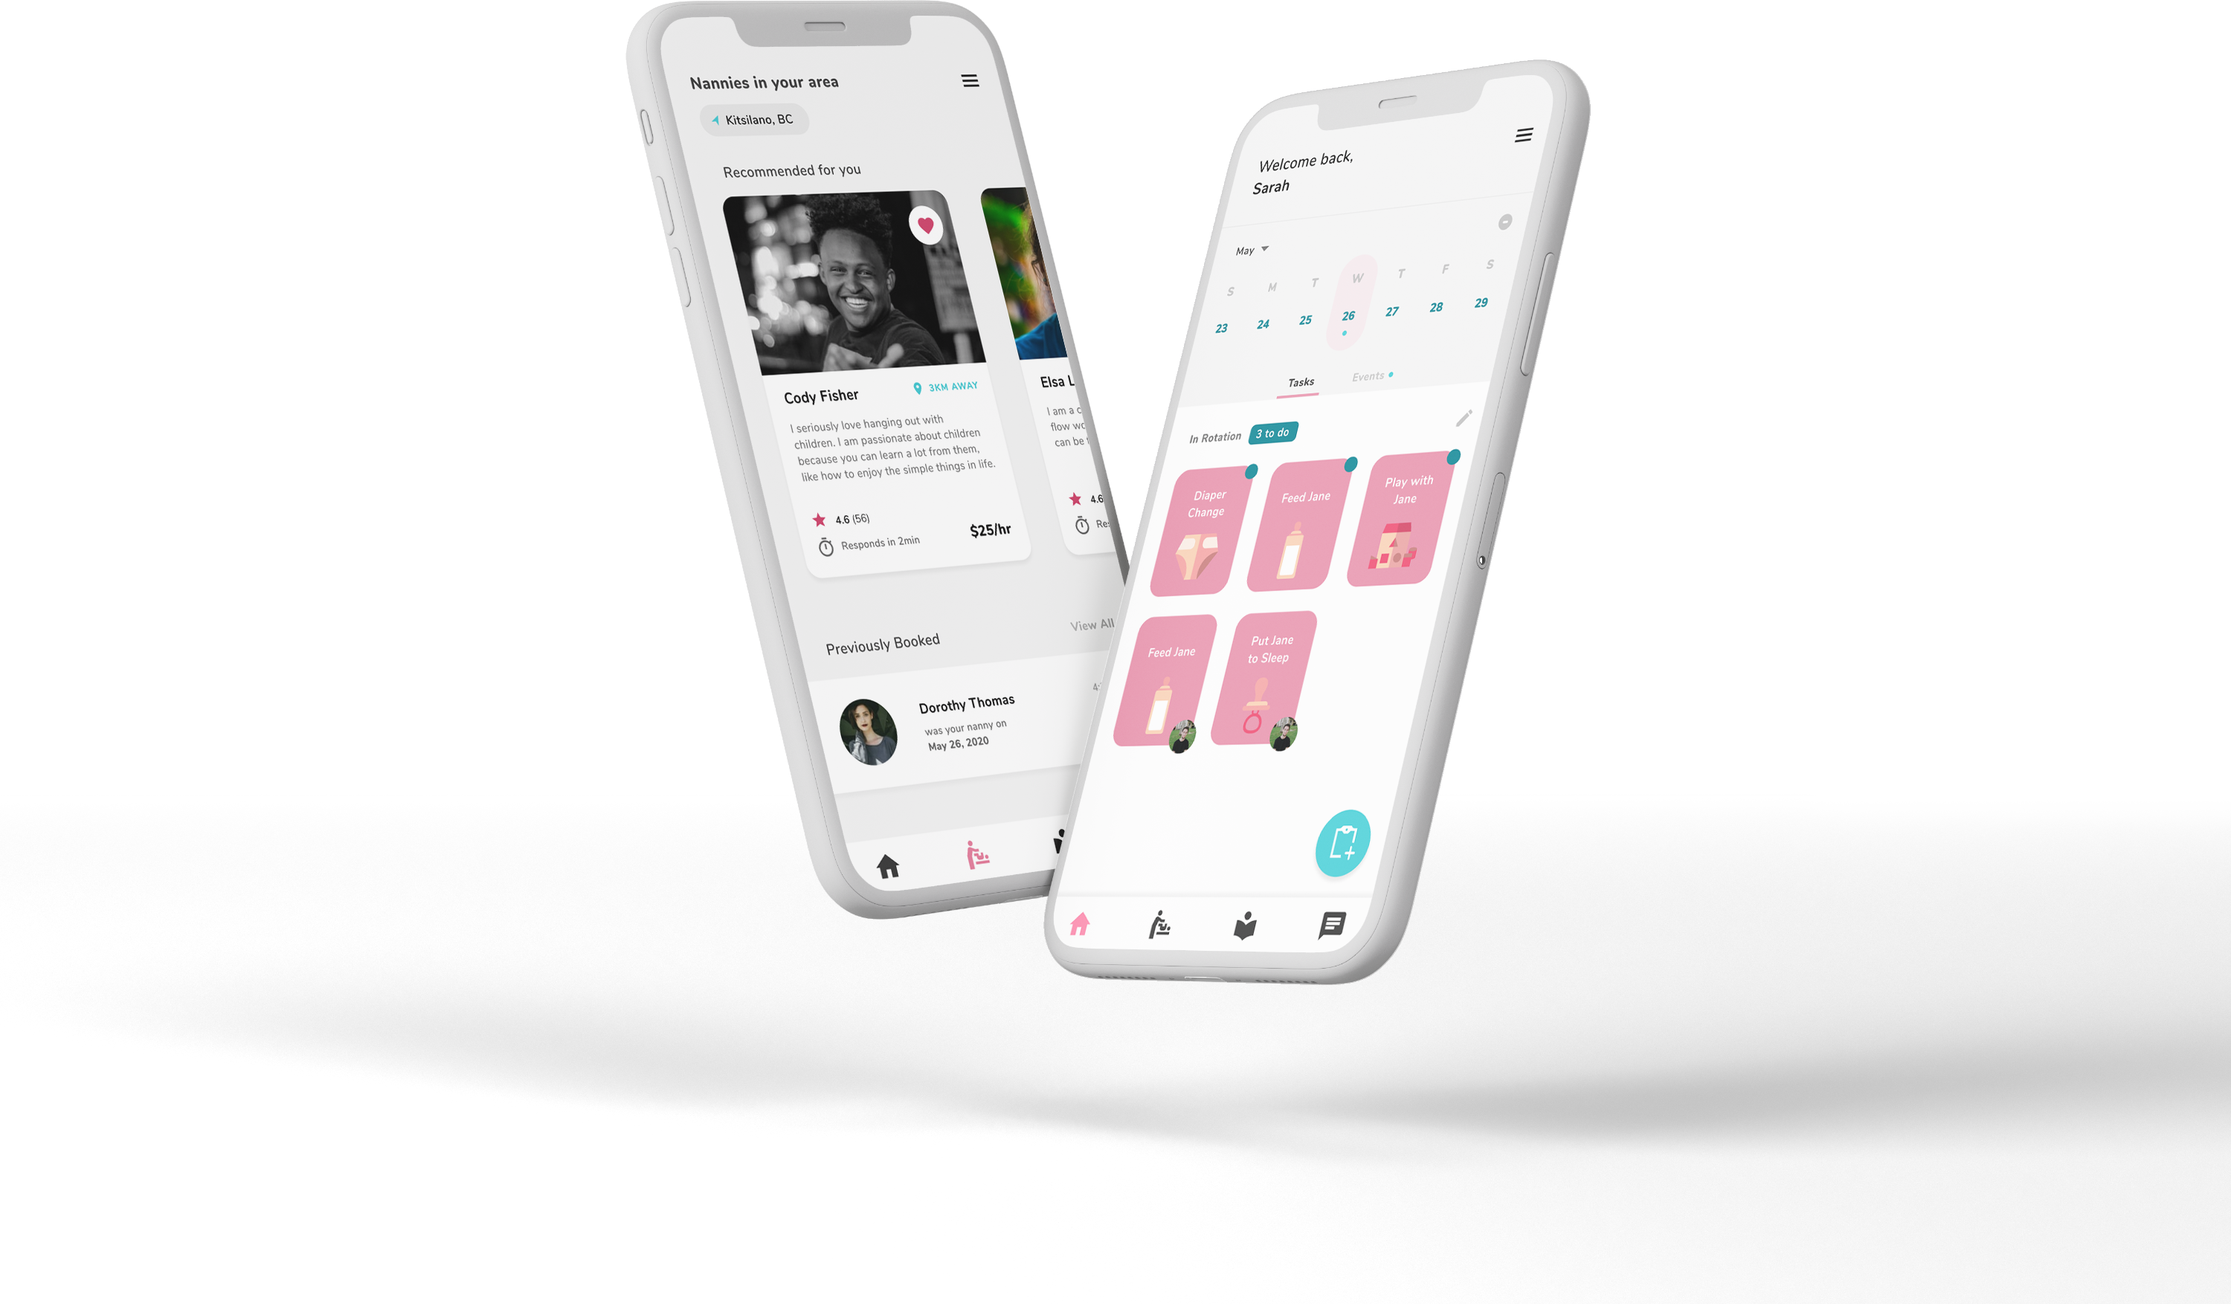
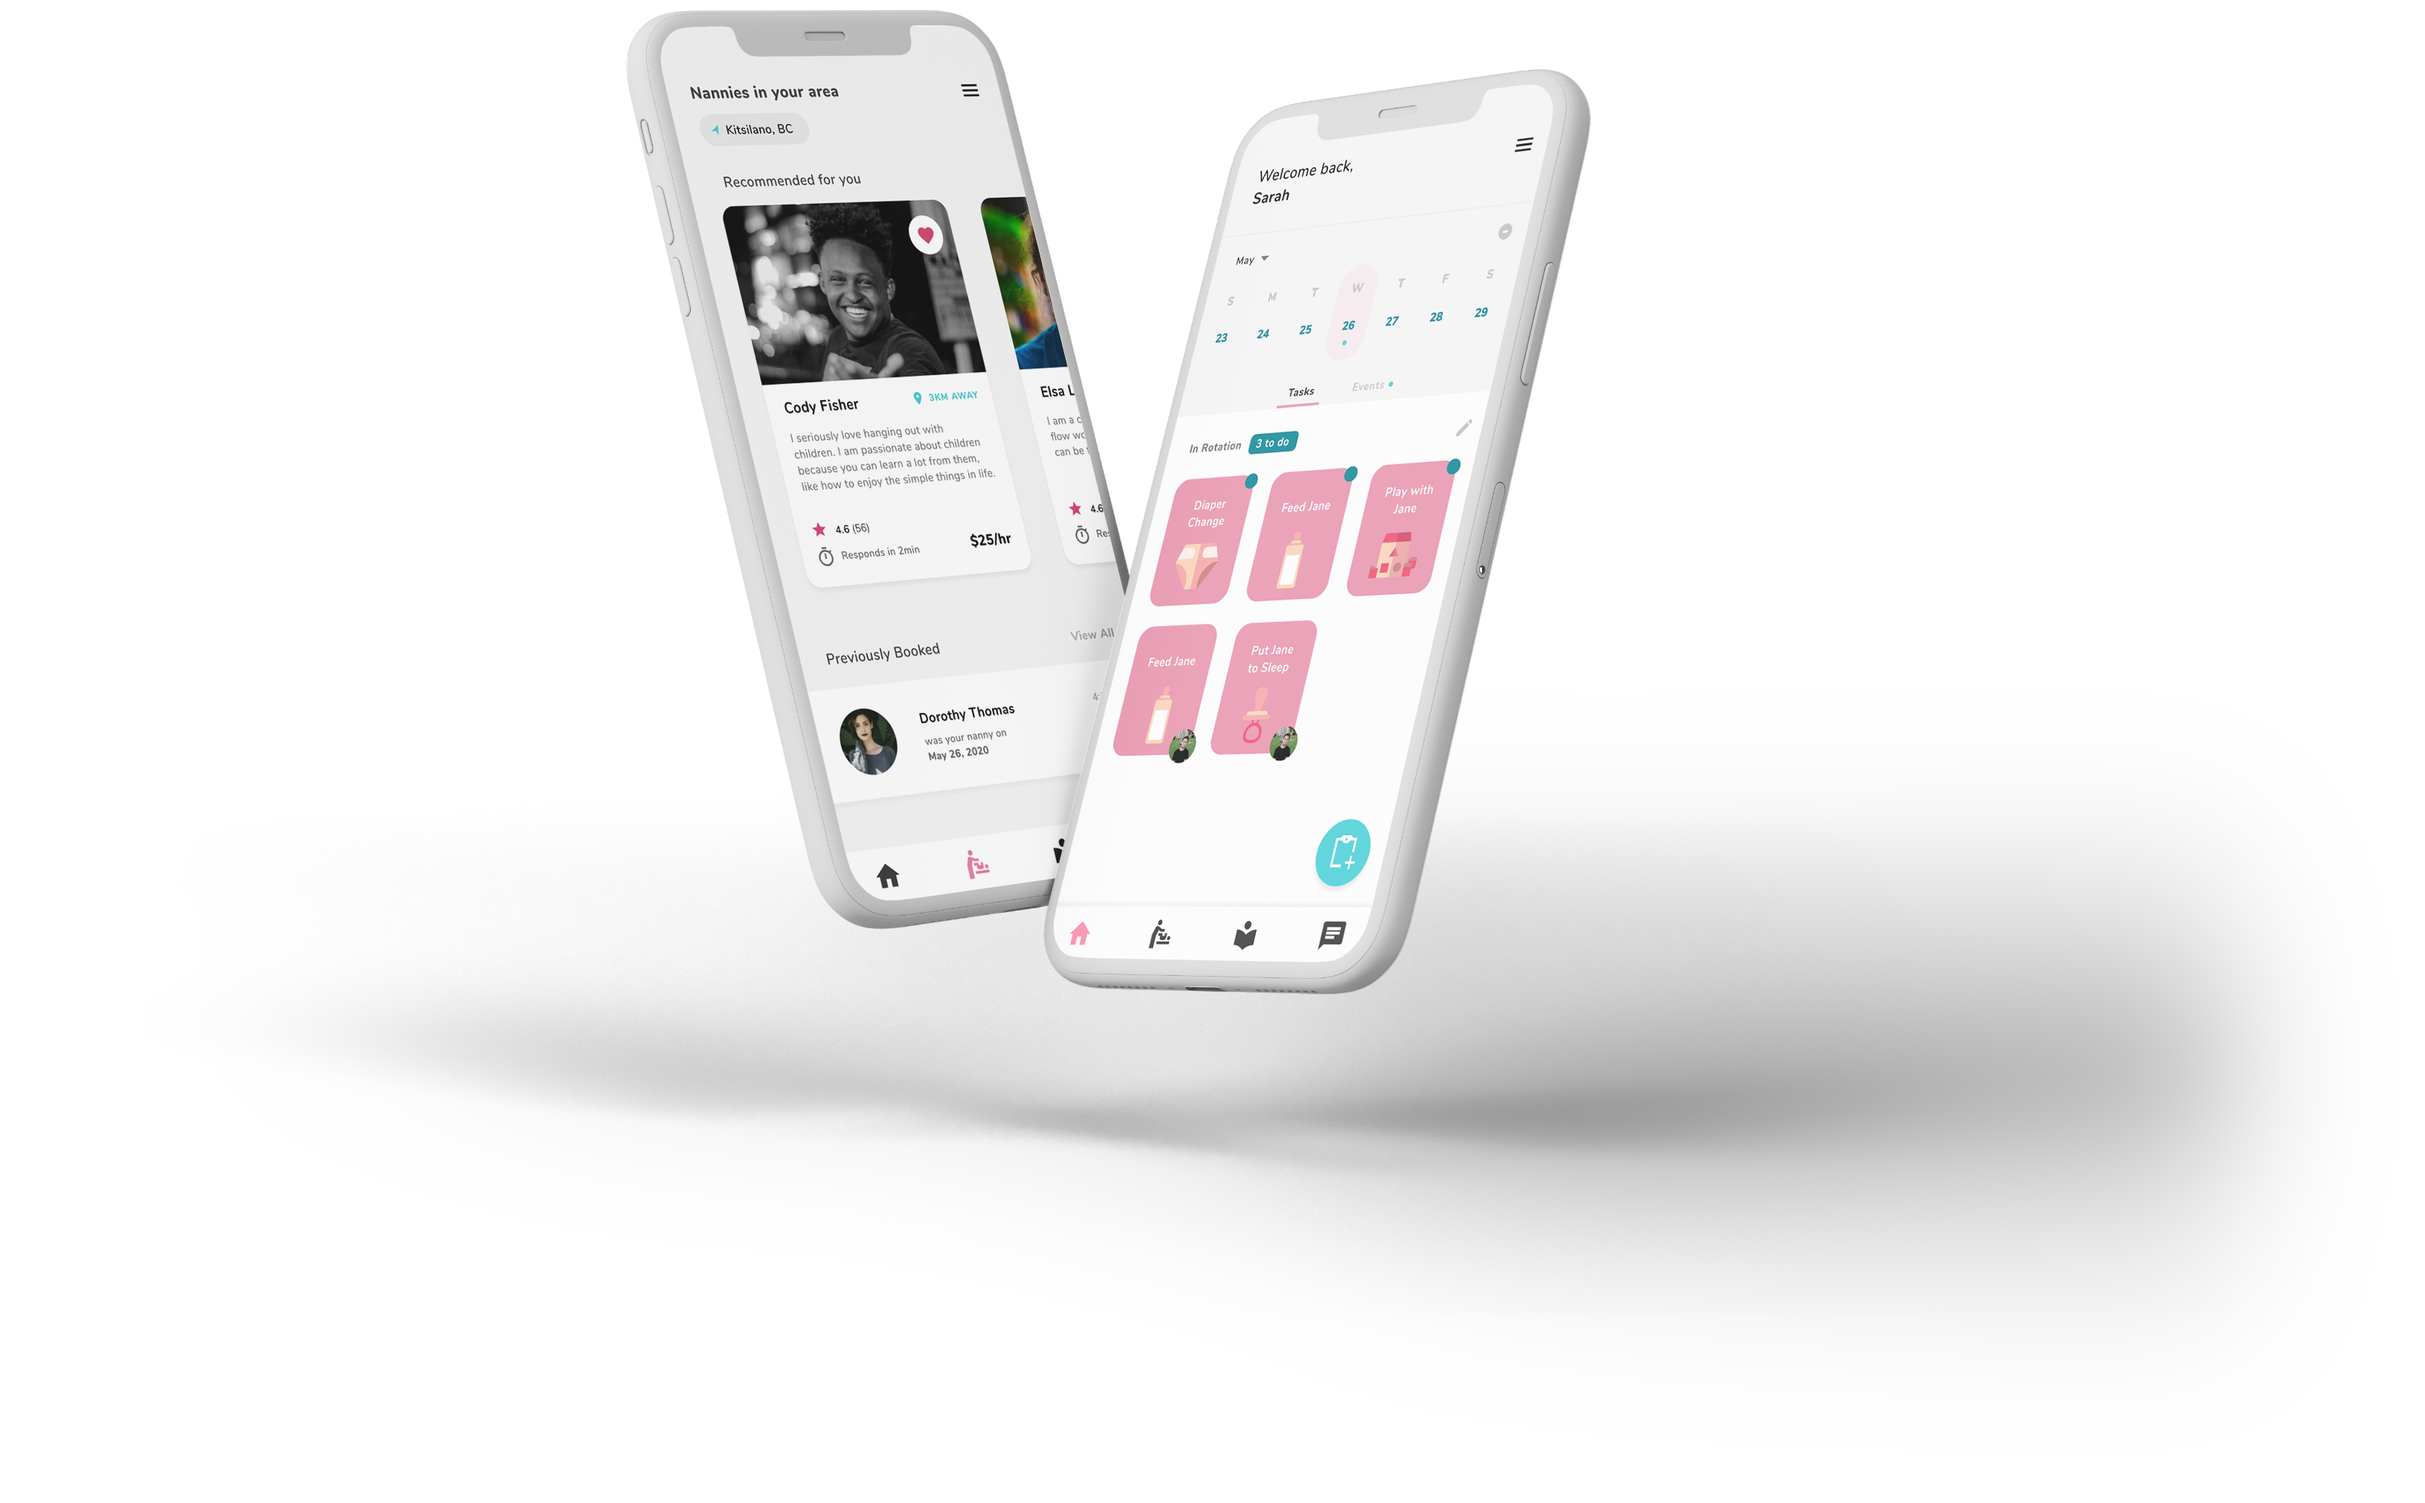
fixed mockup

Changed region(s): [[0.186, 0.0, 1.0, 0.8928], [0.434, 0.8312, 0.527, 0.8928], [0.279, 0.8005, 0.372, 0.8312]]

diff --git a/assets/css/edit.css b/assets/css/edit.css
@@ -20,6 +20,12 @@ light grey: e0e0e0;
 
 
 /*------------------------------------------------------------------------------------- Robert */
+/*------------------------------------------------------------------------------------- General */
+body {
+	max-width: 100%;
+	overflow-x: hidden;
+}
+
 /*------------------------------------------------------------------------------------- HOME Circles */
 
 h1, h2 {
@@ -86,20 +92,34 @@ h1, h2 {
     letter-spacing: 0 !important;
 }
 .titleBox .right img {
-    margin-top: -8.5rem;
-    max-width: 160%;
+    margin-top: -2rem;
+    margin-right: -100%;
+    max-width: 250%;
     z-index: 250;
     float: right;
     overflow-y: visible;
     position: relative;
+    image-rendering: crisp-edges;
+}
+.myImgConainer {
+	position: relative;
+}
+.titleBox .right img.myOver { 
+	position: relative;
+	z-index: 1;
+}
+.titleBox .right img.myUnder {
+    position: absolute;
+    top: 0;
+    right: 0;
+    z-index: 0;
+    display: default;
 }
 
-@media screen and (max-width: 736px) { 
-    .titleBox {height: 20rem;} 
-    .titleBox .right img {
-        margin-top: calc(-2rem - 20%);
-        max-width: calc(70% + 8rem);
-    }
+@media screen and (max-width: 736px) { .titleBox .right img { margin-top: calc(5rem + 2rem - 30%); }}
+@media screen and (max-width: 980px) { .titleBox  { height: 20rem; } .titleBox .right img.myUnder { display: none; }}
+@media screen and (max-width: 1680px) { 
+    .titleBox .right img { max-width: 270%; margin-right: -110%; }
 }
 
 

diff --git a/index.html b/index.html
@@ -53,8 +53,11 @@
 									<a href="https://www.figma.com/proto/MTkTlvyHoJziDU2ZnpaCSs/334_Stage5_v2?node-id=2%3A2849&viewport=422%2C1134%2C0.19956186413764954&scaling=scale-down" class="button primary" target="_blank">View Prototype</a>
 								</div>
 								<div class="right">
-									<a href="https://www.figma.com/proto/MTkTlvyHoJziDU2ZnpaCSs/334_Stage5_v2?node-id=2%3A2849&viewport=422%2C1134%2C0.19956186413764954&scaling=scale-down" target="_blank" class="homeMockup">
-									<img src="images/mockup.png" alt=""/></a>
+										<div class="myImgConainer">
+											<a href="https://www.figma.com/proto/MTkTlvyHoJziDU2ZnpaCSs/334_Stage5_v2?node-id=2%3A2849&viewport=422%2C1134%2C0.19956186413764954&scaling=scale-down" target="_blank" class="homeMockup">
+											<img src="images/mockupPhone.png" alt="" class="myOver" /></a>
+											<img src="images/mockupShadow.png" alt="" class="myUnder" />
+										</div>
 								</div>
 								
 							</div>
